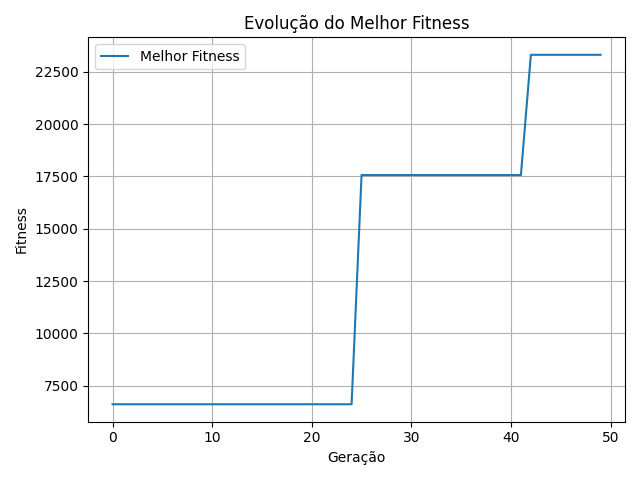
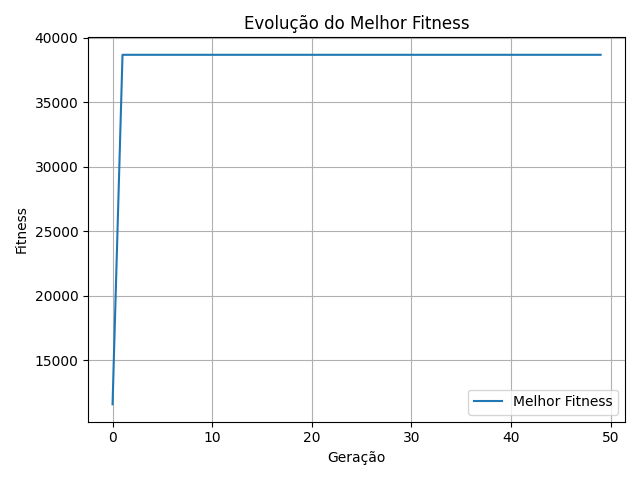
Teste novo calculo

diff --git a/robo_exercicio.py b/robo_exercicio.py
@@ -1009,32 +1009,33 @@ class ProgramacaoGenetica:
                 fitness = 0
 
                 # Pontuação positiva
-                fitness += robo.recursos_coletados * 5000  # 5.000 pontos por recurso
+                fitness += robo.recursos_coletados * 7500
                 if robo.recursos_coletados == recursos_iniciais:
-                    fitness += 10000  # Bônus por coletar todos os recursos
+                    fitness += 15000  # Bônus por coletar todos os recursos
 
                 if ambiente.verificar_atingir_meta(robo.x, robo.y, robo.raio):
-                    fitness += 15000  # Bônus por atingir a meta
+                    fitness += 20000  # Bônus por atingir a meta
 
-                fitness += robo.energia * 50  # Energia como fator proporcional
+                fitness += robo.energia * 80  # Energia como fator proporcional
+                fitness += robo.passos * 10  # 10 pontos por frame onde o robô se move
 
-                # Penalizações (subtração simples, sem multiplicação)
-                fitness -= robo.colisoes * 1000
-                fitness -= tempo_parado * 50
-                fitness -= tempo_sem_progresso * 100
-                fitness -= (recursos_iniciais - robo.recursos_coletados) * 3000
+                # Penalizações (reduzidas)
+                fitness -= robo.colisoes * 500
+                fitness -= tempo_parado * 25
+                fitness -= tempo_sem_progresso * 50
+                fitness -= (recursos_iniciais - robo.recursos_coletados) * 1500
 
                 # Penalizar distância até a meta (se não atingiu)
                 if not ambiente.verificar_atingir_meta(robo.x, robo.y, robo.raio):
                     dist_final = np.sqrt((robo.x - objetivo['x'])**2 + (robo.y - objetivo['y'])**2)
-                    fitness -= dist_final * 10
+                    fitness -= dist_final * 5
 
                 # Garantir que o fitness não seja negativo
                 fitness = max(fitness, 0)
 
                 melhor_fitness = max(melhor_fitness, fitness)
-            
-            individuo.fitness = melhor_fitness
+                
+                individuo.fitness = melhor_fitness
             
             # Atualizar melhor indivíduo
             if individuo.fitness > self.melhor_fitness:
